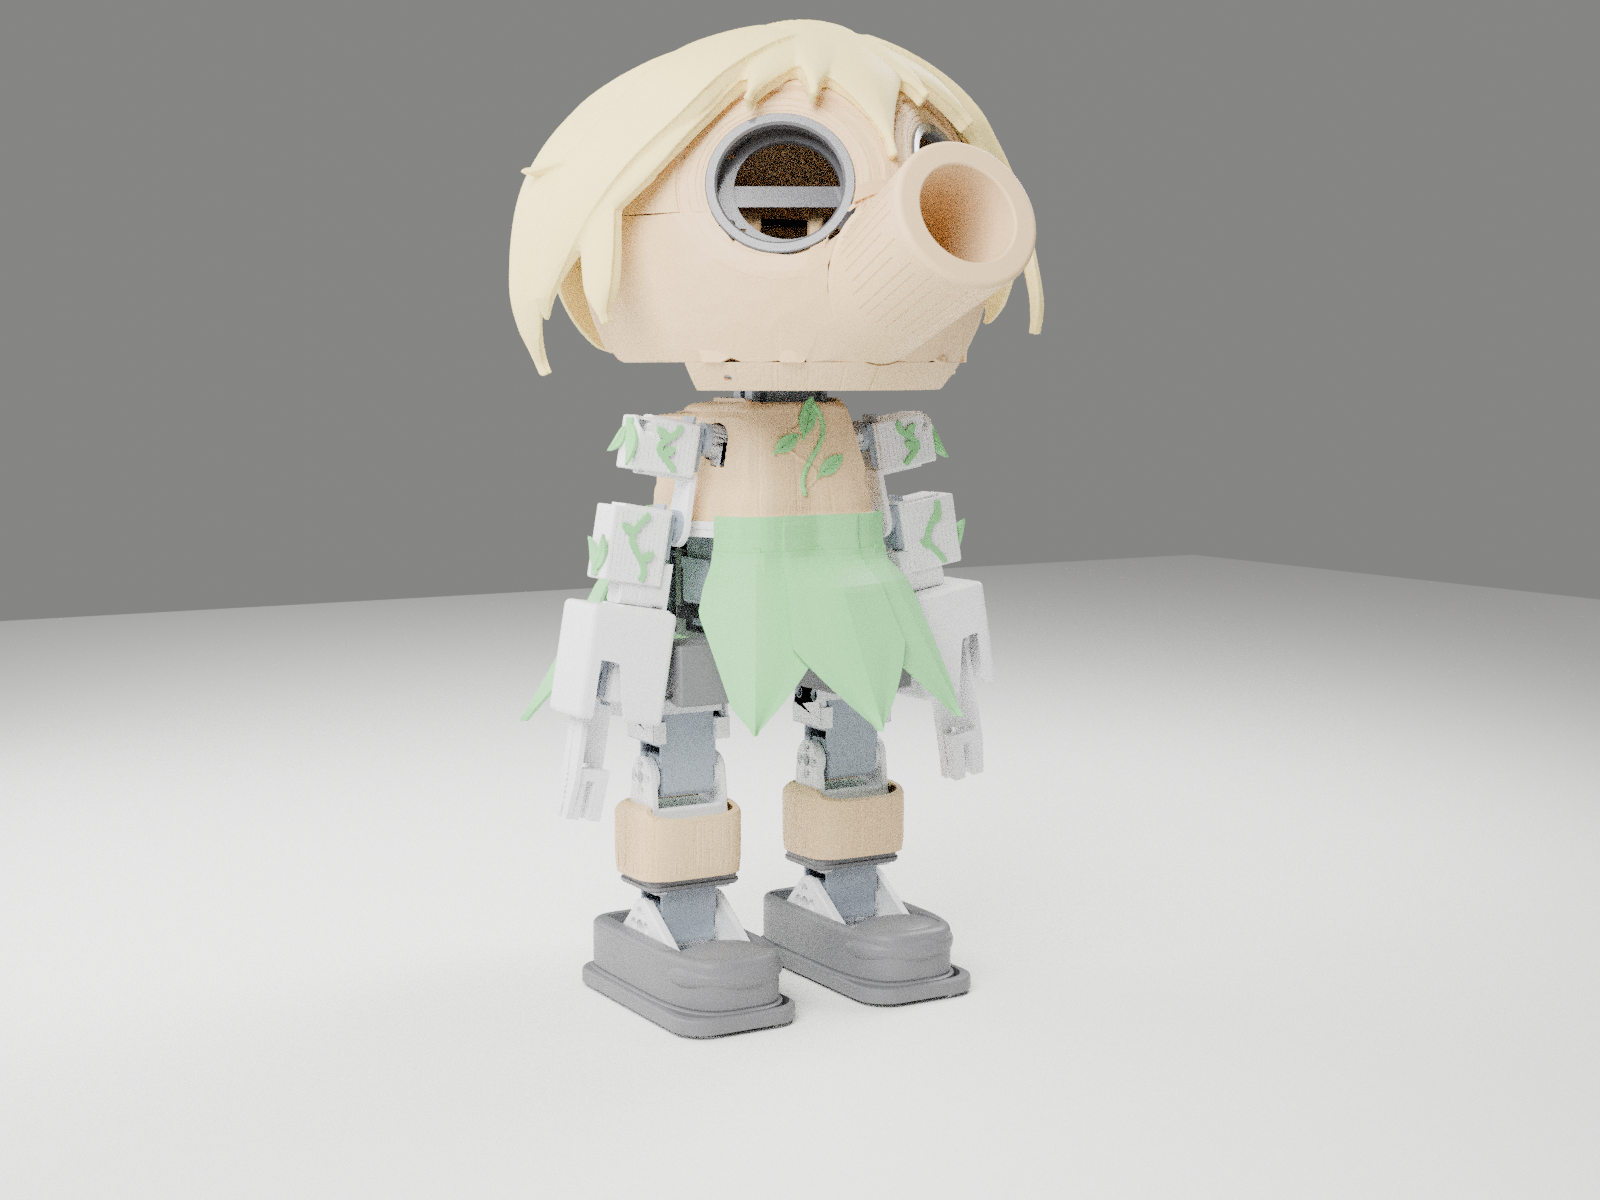
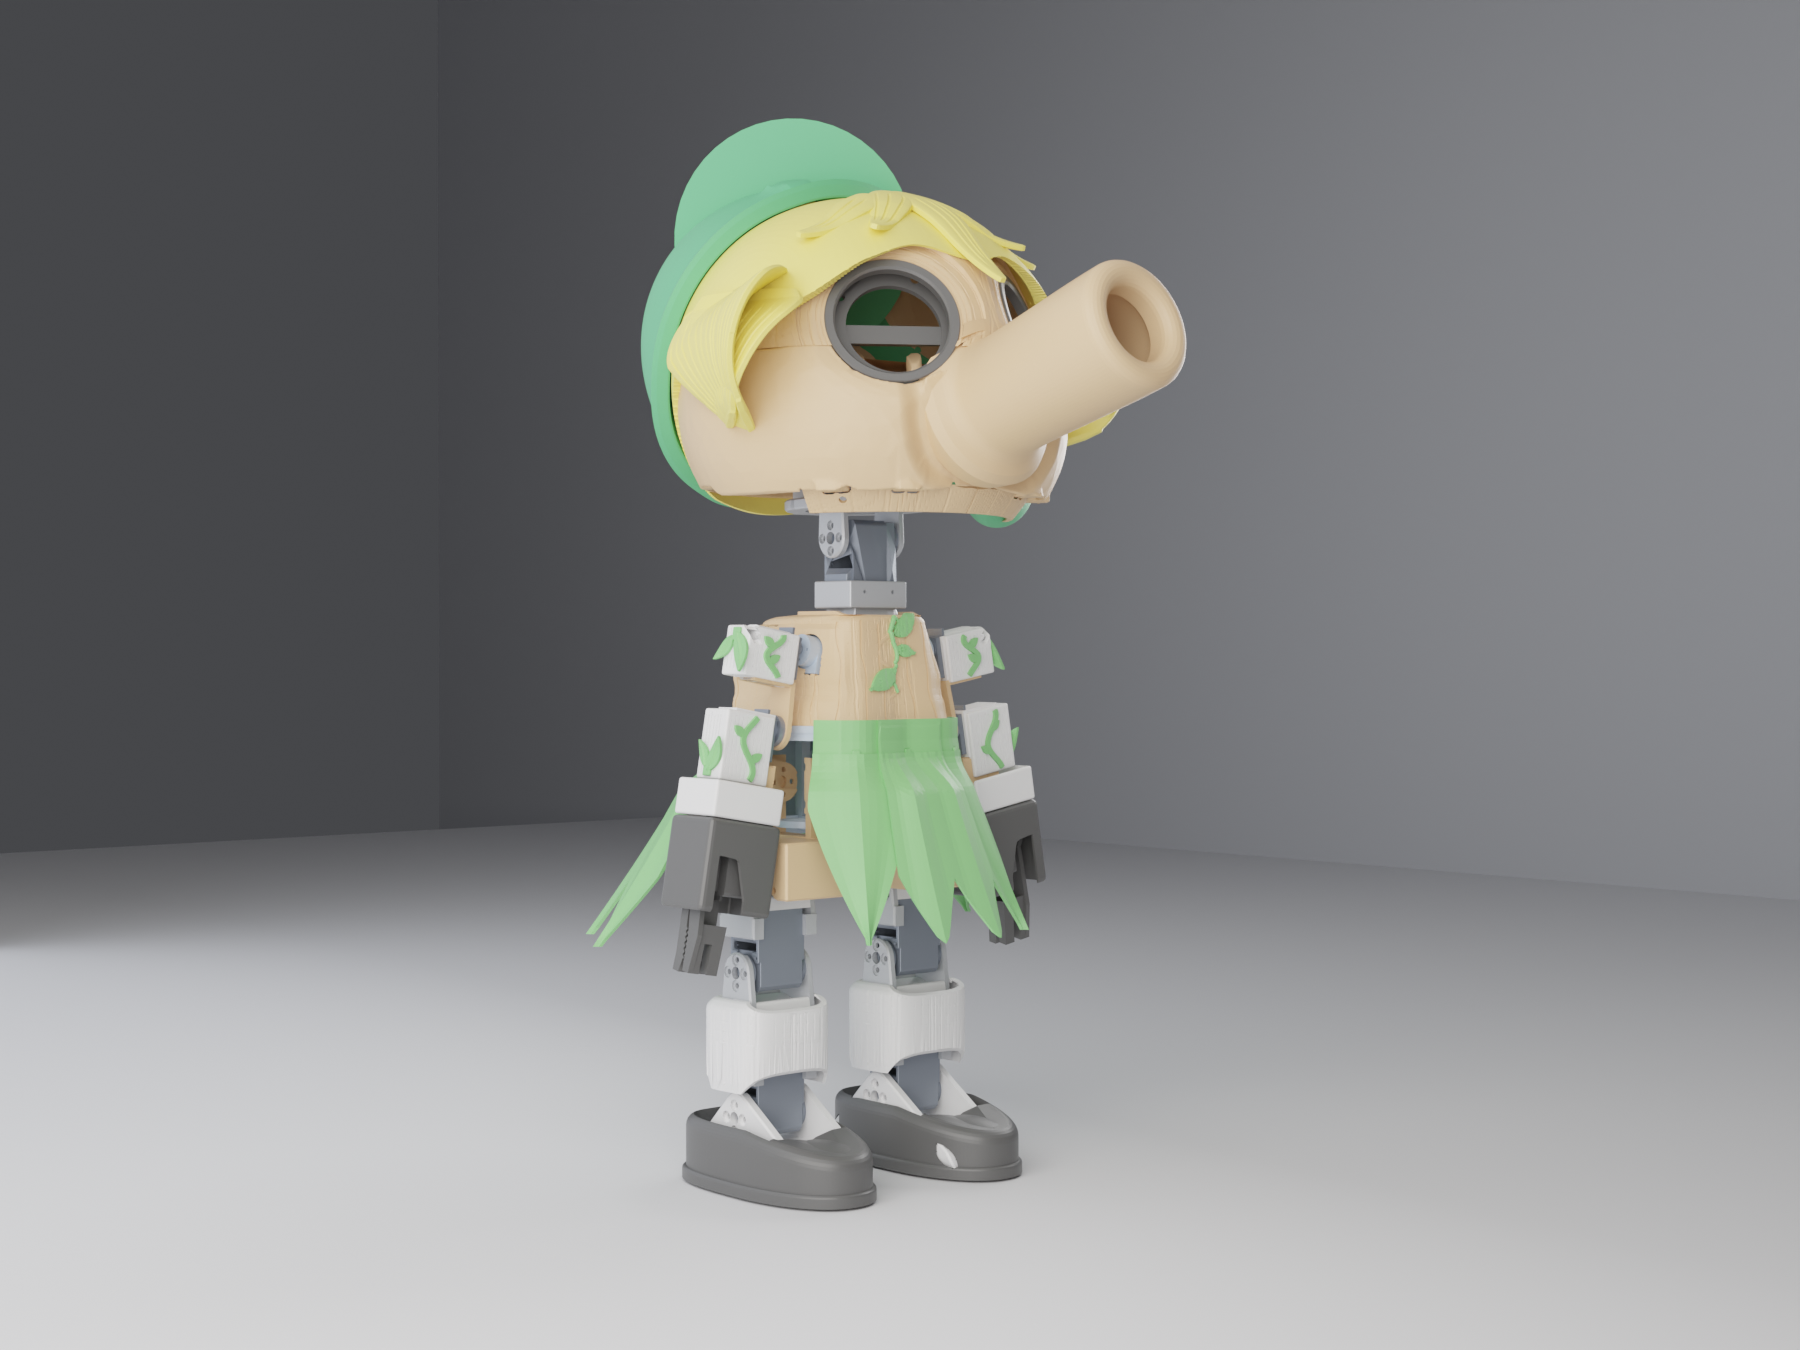
Replace the README hero with the v6.11 hair render.
The front and back images are the supplied rest-pose renders. Captions name hair v6.11 (v6b0). The results table and the assembly-step images stay.

diff --git a/README.md b/README.md
@@ -1,4 +1,4 @@
-![Twiglet, rest pose, front three-quarter view](docs/images/hero_current.png)
+![Twiglet, rest pose, front three-quarter view, hair v6.11 (v6b0)](docs/images/hero_current.png)
 
 # Twiglet
 
@@ -11,14 +11,14 @@
 | | | |
 |:-:|:-:|:-:|
 | ![complete, back](docs/images/hero_back.png) | ![wig on the head](docs/images/assembly/s14_wig.png) | ![head shells and nose](docs/images/head_shell_nose_parts.png) |
-| **Back view.** Body v3.34, head v3.30, hair v3.44 | **Hair mesh in this repo: v3.44** | **Head shells and nose, v3.30** |
+| **Back view.** Body v3.34, head v3.30, hair v6.11 (v6b0), neck stand-ins | **Hair mesh in this repo: v3.44** | **Head shells and nose, v3.30** |
 | ![legs on the trunk](docs/images/assembly/s06_legs_on_trunk.png) | ![arms](docs/images/assembly/s09_arms.png) | ![head inside](docs/images/assembly/s12_head_inside.png) |
 | **Legs on the trunk** | **3-DoF arms (STS3032)** | **Head inside: Pi, eyes, ballast** |
 
 ## Highlights
 
 - **Head:** the big wood-textured ball (v3.30 silhouette) with a hollow nose and two 2.1" round touch LCDs as eyes (ESP32-S3; firmware in [`experiments/twiglet_eyes/`](experiments/twiglet_eyes/README.md)), on a 3-servo neck (Open Duck Mini v2-compatible). The walking model uses a **0.843 kg** head (0.84258 kg).
-- **Hair:** the approved keeper is **v6.11 (v6b0)**. That STL is not in this repository, so the pictures above use the hair mesh that is, **v3.44**. A felt hat is not in the model.
+- **Hair:** the approved keeper is **v6.11 (v6b0)**. The README hero renders use that keeper (fringe + felt hat) from the outside viewer assembly. The hair STL is still not checked into this repository; the assembly-step wig image remains the in-repo **v3.44** mesh.
 - **Body:** a slim torso cone with a 10-petal leaf kilt, shin covers and boots (body v3.34).
 - **Arms:** two 3-DoF arms (shoulder, elbow, gripper) on Feetech STS3032 micro bus servos, powered from a 6 V buck regulator.
 - **Simulation:** MuJoCo only, stock **STS3215** leg and neck servos at **1.91 N·m**. Sole contacts are proxy boxes. Nothing here is a hardware or strength result.
